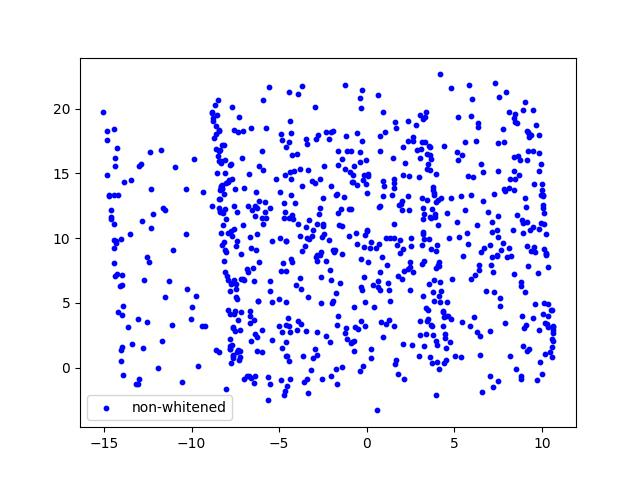
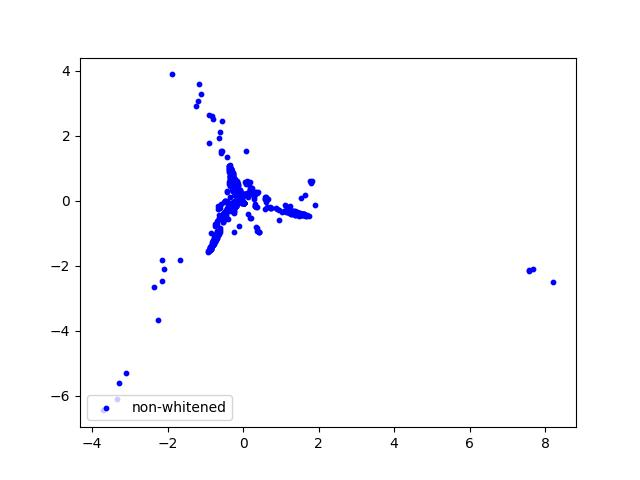
ERR fixed bug in nested for loops (k times n to n times k) choosing weights for W matrix ADD function k-neighbours splitting code ADD W matrix check

diff --git a/main.py b/main.py
@@ -19,48 +19,82 @@ def Floyd_Warshall(W):
     return D
 
 
-def neighbourhood_matrix(X, k=1):
-    n = int(len(X))
+def k_weight_matrix(D, k=2):
+    # Calculate k closest neighbours
+    # Creating D_copy has no other point then to show the difference and not "spoil" the original matrix D
+    n = int(len(D))
 
-    D = np.zeros(shape=(n, n))
-    # W = np.zeros(shape=(n, n))
     infinity = 10.
     W = np.full((n, n), infinity)
+
+    D_copy = D.copy()
+    for i in range(0, len(D_copy)):
+        for j in range(k):
+            W[i][i] = 0
+
+            max_idx = np.argmin(D_copy[i])
+            W[i][max_idx] = D[i][max_idx]
+            D_copy[i][max_idx] = 0
+
+    if (W == W.T).all():
+        print("Weight matrix check: correct")
+    else:
+        print("Weight matrix check: failed")
+    return W
+
+
+def distance_matrix(X):
+    n = int(len(X))
+    D = np.zeros(shape=(n, n))
 
     # Get Cartesian distance
     for i in range(n):
         for j in range(n):
             D[i][j] = math.sqrt(abs(X[i][0] - X[j][0]) + abs(X[i][1] - X[j][1]) + abs(X[i][2] - X[j][2]))
 
-    print(D)
-
-    # Calculate k closest neighbours
-    # Creating D_copy has no other point then to show the difference and not "spoil" the original matrix D
-
-    D_copy = D.copy()
-    for j in range(k):
-        for i in range(0, len(D_copy)):
-            W[i][i] = 0
-
-            max_idx = np.argmax(D_copy[i])
-            W[i][max_idx] = D[i][max_idx]
-            D_copy[i][max_idx] = 0
-    print(W)
-    return W
+    return D
 
 
 def generate_data():
     random.seed(1234)
-    print("Hi")
-    X, smoke_it = sklearn.datasets.make_swiss_roll(3)
+    # print("Hi")
+    X, Y = sklearn.datasets.make_swiss_roll(10)
+    # print("Before data")
     # print(X)
     # print(smoke_it)
 
     # show the data
-    # fig = scatter_3d(x=X[:, 0], y=X[:, 1], z=X[:, 2], color=X[:, 2])
+    # fig = scatter_3d(x=X[:, 0], y=X[:, 1], z=X[:, 2], color=Y)
     # fig.show()
-    neighbourhood_matrix(X)
+    return X, Y
+
+
+def gram_matrix(D, d):
+    n = D.shape[0]
+    H = np.eye(n) - np.ones((n, n)) / n
+    G = - H @ (D * D) @ H / 2
+    Lambda, V = np.linalg.eigh(G)
+    Lambda, V = Lambda[:-d - 1:-1], V[:, :-d - 1:-1]
+    Z = np.diag(np.sqrt(Lambda)) @ V.T
+    # print("After data")
+    # print(Z)
+    return Z
 
 
 if __name__ == '__main__':
-    generate_data()
+    X, Y = generate_data()
+    D = distance_matrix(X)
+    W = k_weight_matrix(D, 5)
+    D = Floyd_Warshall(W)
+    Z = gram_matrix(D, 2)
+    # print(len(Z))
+    # print(len(Z[0]))
+
+    # x1 = Z[0]
+    # y1 = Z[1]
+    # fig = plt.figure()
+    # ax1 = fig.add_subplot(111)
+
+    # ax1.scatter(x1, y1, s=10, c='blue', marker="o", label='non-whitened')
+    # plt.legend(loc='lower left')
+    # plt.savefig('scatter_plot.jpg')
